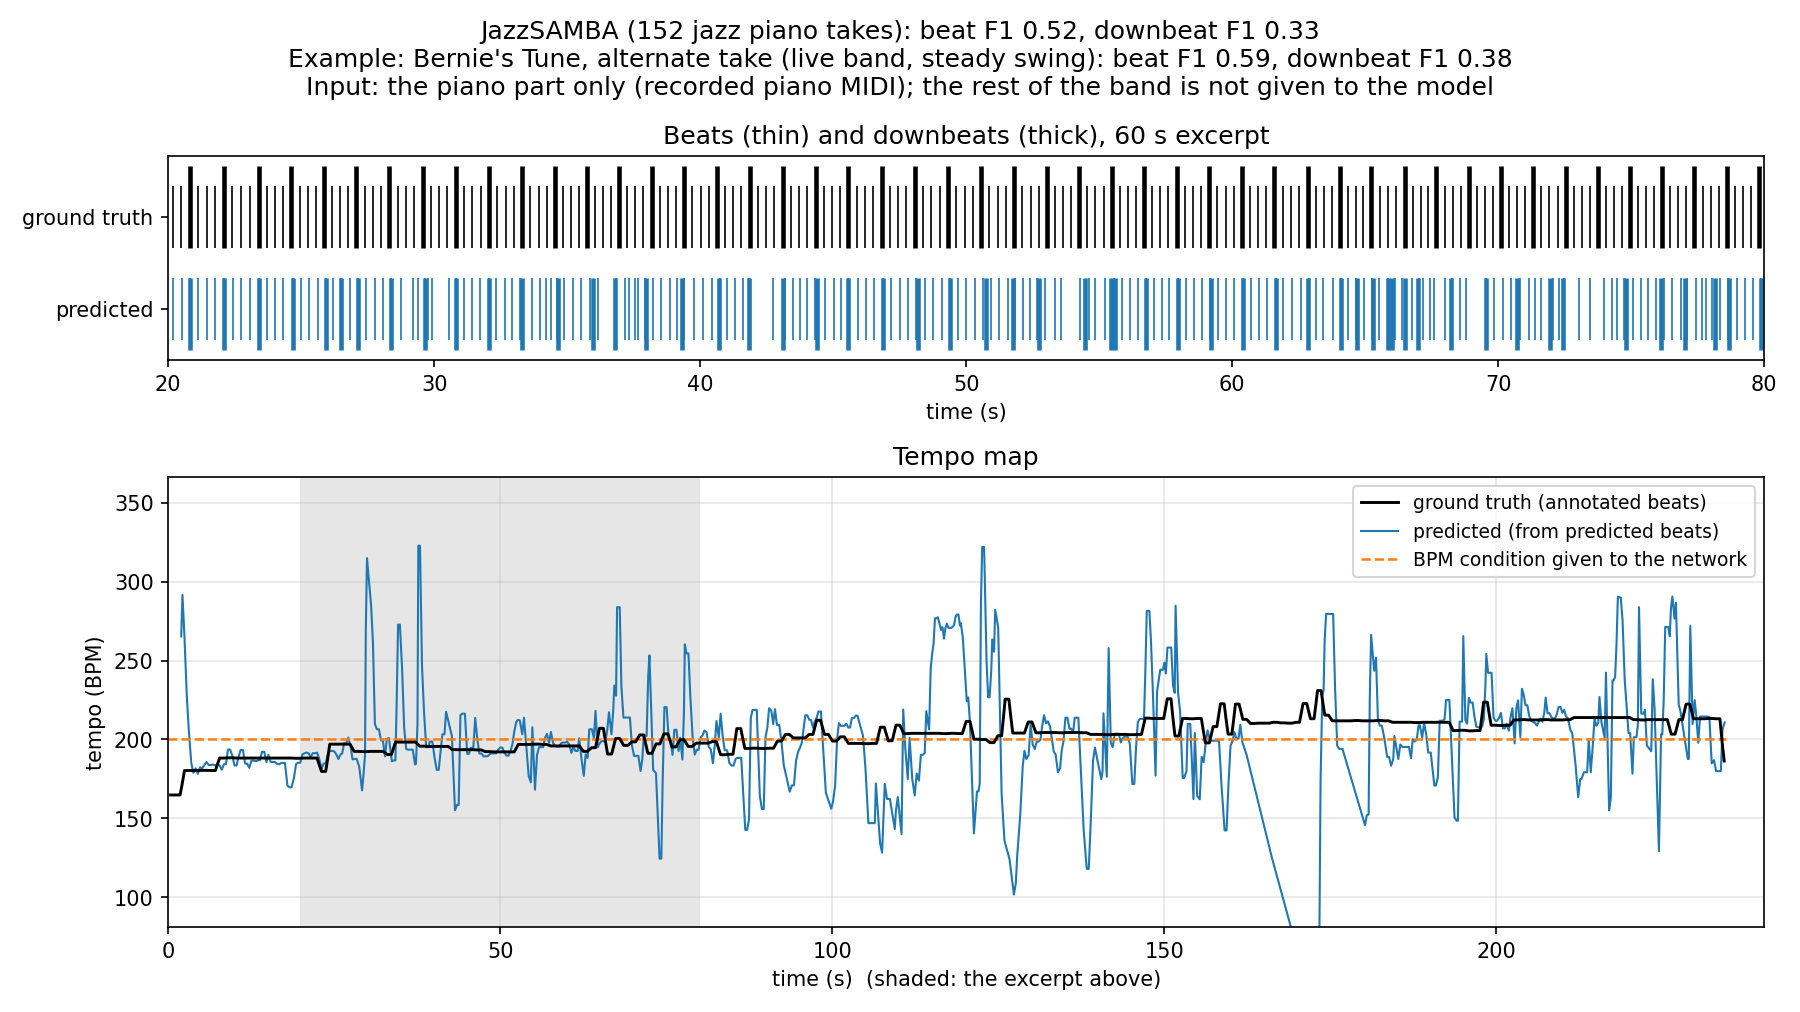
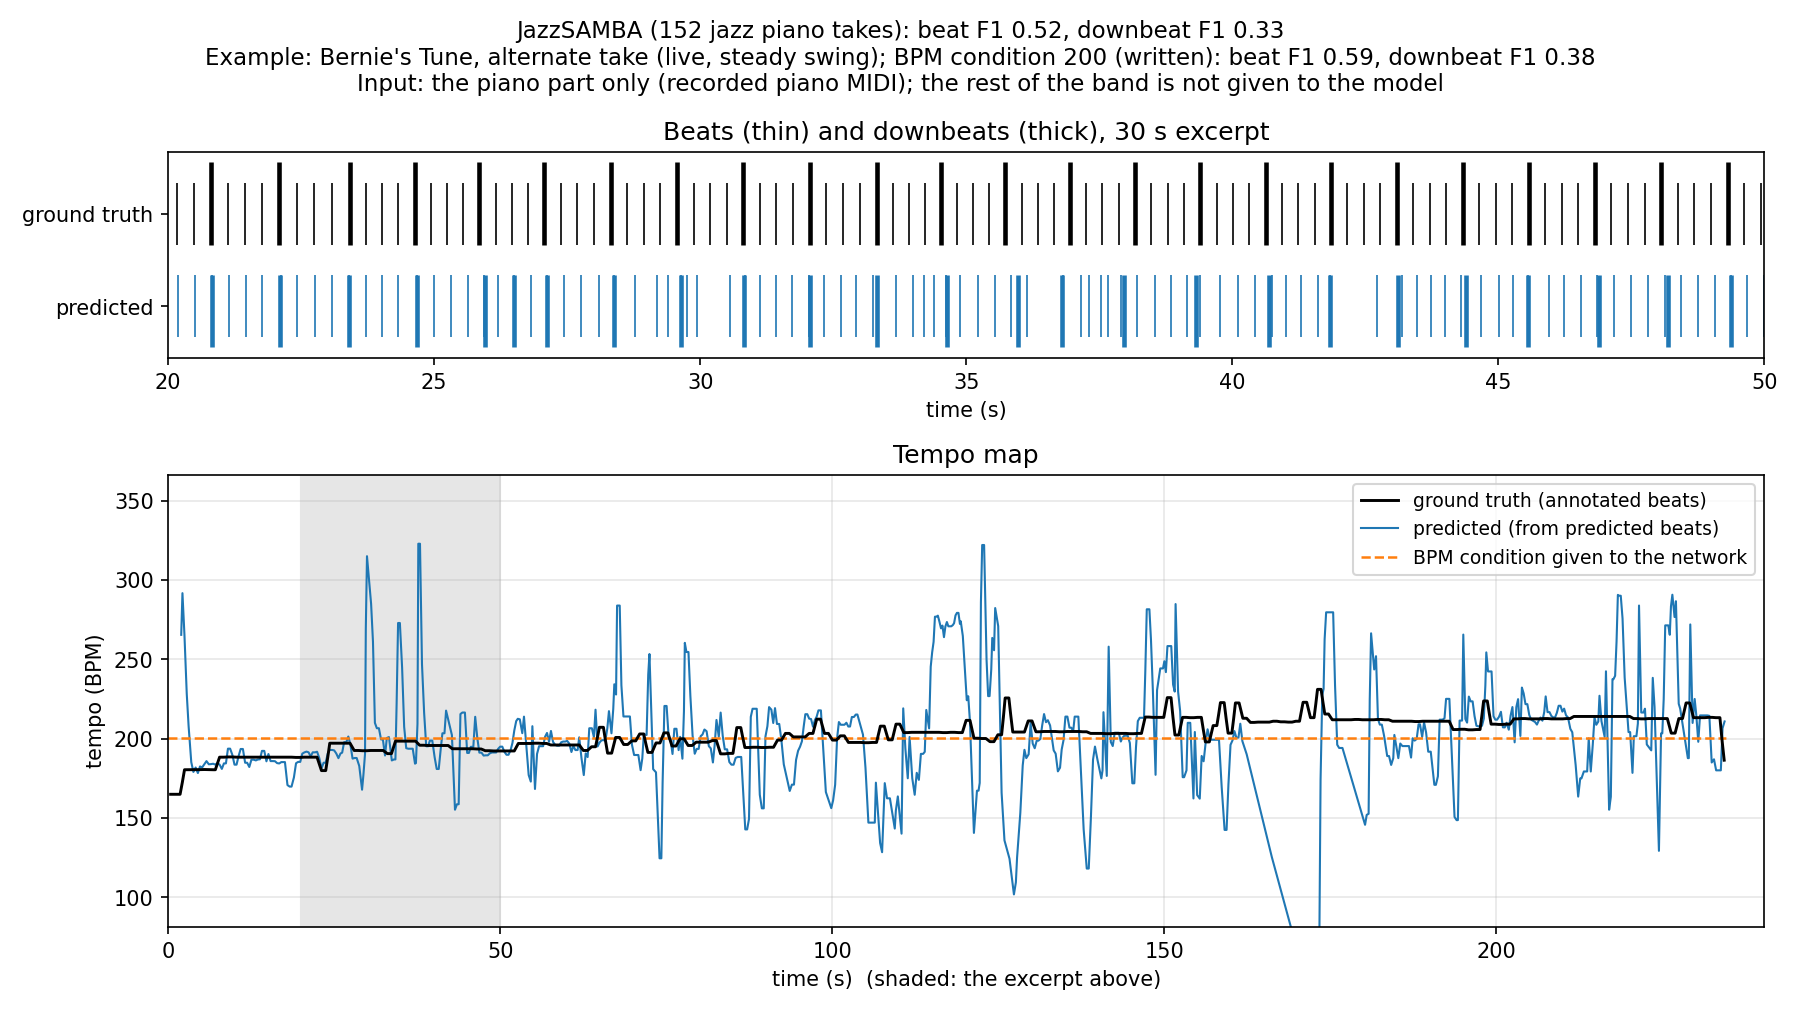
Slide figures: 30 s excerpts; Amazing Grace with piano vs piano + band
report_figures.py gains --datasets, --samba-instruments (merged band MIDI)
and --samba-tempo (written or played). Amazing Grace (preferred, played
tempo): piano 0.84/0.76, piano + bass + trumpet 0.89/0.87 beat/downbeat F1.

diff --git a/experiments/yamaha_timing/report_figures.py b/experiments/yamaha_timing/report_figures.py
@@ -55,7 +55,7 @@ def tempo_curve(beats, smooth=4):
     return beats[1:], bpm
 
 
-def figure(example, title, subtitle, path, rate, excerpt=(20.0, 80.0), source=""):
+def figure(example, title, subtitle, path, rate, excerpt=(20.0, 50.0), source=""):
     """Plain matplotlib: true vs predicted beats over an excerpt, and the tempo map."""
     import matplotlib
     matplotlib.use("Agg")
@@ -76,7 +76,7 @@ def figure(example, title, subtitle, path, rate, excerpt=(20.0, 80.0), source=""
     top.set_ylim(0, 1)
     top.set_xlim(t0, t1)
     top.set_xlabel("time (s)")
-    top.set_title("Beats (thin) and downbeats (thick), 60 s excerpt")
+    top.set_title(f"Beats (thin) and downbeats (thick), {t1 - t0:.0f} s excerpt")
 
     tt, bt = tempo_curve(np.asarray(example["true_beats"]))
     tp, bp = tempo_curve(np.asarray(example["pred_beats"]))
@@ -98,7 +98,7 @@ def figure(example, title, subtitle, path, rate, excerpt=(20.0, 80.0), source=""
 
     s = example["scores"]
     fig.suptitle(f"{title}\nExample: {subtitle}: beat F1 {s['beat']['f_measure']:.2f}, "
-                 f"downbeat F1 {s['downbeat']['f_measure']:.2f}\nInput: {source}", fontsize=12)
+                 f"downbeat F1 {s['downbeat']['f_measure']:.2f}\nInput: {source}", fontsize=11)
     fig.tight_layout()
     fig.savefig(path)
     plt.close(fig)
@@ -107,12 +107,19 @@ def figure(example, title, subtitle, path, rate, excerpt=(20.0, 80.0), source=""
 def main():
     parser = argparse.ArgumentParser(description=__doc__, formatter_class=argparse.RawDescriptionHelpFormatter)
     parser.add_argument("--checkpoint", type=Path, required=True)
+    parser.add_argument("--datasets", nargs="*", default=["lakh", "asap", "samba"])
     parser.add_argument("--lakh", type=Path, default=Path("data/lakh_v2"))
-    parser.add_argument("--samba", type=Path, required=True)
-    parser.add_argument("--samba-take", default="52-bernies_tune/alternate")
+    parser.add_argument("--asap", type=Path)
     parser.add_argument("--asap-label", default="Haydn, Keyboard Sonata Hob. XVI:32, mvt. 1")
-    parser.add_argument("--samba-label", default="Bernie's Tune, alternate take (live band, steady swing)")
-    parser.add_argument("--asap", type=Path, required=True)
+    parser.add_argument("--samba", type=Path)
+    parser.add_argument("--samba-take", default="52-bernies_tune/alternate")
+    parser.add_argument("--samba-label", default="Bernie's Tune, alternate take (live, steady swing)")
+    parser.add_argument("--samba-instruments", default="piano",
+                        help="comma-separated: piano, bass, horns, drums (merged into one piano roll)")
+    parser.add_argument("--samba-tempo", default="written", choices=("written", "played"),
+                        help="BPM condition: the catalog's written tempo or the take's median played tempo")
+    parser.add_argument("--samba-title", default="JazzSAMBA (152 jazz piano takes): beat F1 0.52, downbeat F1 0.33")
+    parser.add_argument("--samba-out", default="3_samba.png")
     parser.add_argument("--lakh-songs", type=int, default=80, help="validation songs scanned for a median one")
     parser.add_argument("--out", type=Path, default=Path("report_figures"))
     args = parser.parse_args()
@@ -120,36 +127,46 @@ def main():
     model, _ = load_checkpoint(args.checkpoint, "cpu")
     model.eval()
     rate = model.config.frame_rate
-
-    pack = SongPack(args.lakh / "val.npz")
-    group = np.asarray(pack.meta["group"])
-    firsts = [int(np.flatnonzero(group == g)[0]) for g in np.unique(group)][:args.lakh_songs]
-    examples = [(i, lakh_example(model, pack, i)) for i in firsts]
-    mb = np.median([e["scores"]["beat"]["f_measure"] for _, e in examples])
-    md = np.median([e["scores"]["downbeat"]["f_measure"] for _, e in examples])
-    index, ex = min(examples, key=lambda p: abs(p[1]["scores"]["beat"]["f_measure"] - mb)
-                    + abs(p[1]["scores"]["downbeat"]["f_measure"] - md))
-    figure(ex, "Lakh validation (717 held-out songs): beat F1 0.81, downbeat F1 0.61",
-           "a synthetic performance of a held-out song", args.out / "1_lakh_validation.png", rate,
-           source="a random combination of the song's pitched tracks (no drums), merged into one piano roll")
-    print("lakh song", pack.ids[index] if hasattr(pack, "ids") else index, ex["scores"]["beat"]["f_measure"],
-          ex["scores"]["downbeat"]["f_measure"])
-
     max_note = SynthesisConfig().max_note_seconds
-    for name, takes, wanted, title, source, path in (
-            ("asap", asap_takes(args.asap), args.asap_label,
-             "ASAP (1,067 classical piano performances): beat F1 0.58, downbeat F1 0.25",
-             "solo piano performance MIDI", "2_asap.png"),
-            ("samba", [t for t in samba_takes(args.samba) if t.name == args.samba_take], args.samba_label,
-             "JazzSAMBA (152 jazz piano takes): beat F1 0.52, downbeat F1 0.33",
-             "the piano part only (recorded piano MIDI); the rest of the band is not given to the model",
-             "3_samba.png")):
-        take = takes[0]
+
+    if "lakh" in args.datasets:
+        pack = SongPack(args.lakh / "val.npz")
+        group = np.asarray(pack.meta["group"])
+        firsts = [int(np.flatnonzero(group == g)[0]) for g in np.unique(group)][:args.lakh_songs]
+        examples = [(i, lakh_example(model, pack, i)) for i in firsts]
+        mb = np.median([e["scores"]["beat"]["f_measure"] for _, e in examples])
+        md = np.median([e["scores"]["downbeat"]["f_measure"] for _, e in examples])
+        index, ex = min(examples, key=lambda p: abs(p[1]["scores"]["beat"]["f_measure"] - mb)
+                        + abs(p[1]["scores"]["downbeat"]["f_measure"] - md))
+        figure(ex, "Lakh validation (717 held-out songs): beat F1 0.81, downbeat F1 0.61",
+               "a synthetic performance of a held-out song", args.out / "1_lakh_validation.png", rate,
+               source="a random combination of the song's pitched tracks (no drums), merged into one piano roll")
+        print("lakh", index, ex["scores"]["beat"]["f_measure"], ex["scores"]["downbeat"]["f_measure"])
+
+    if "asap" in args.datasets:
+        take = asap_takes(args.asap)[0]
         _, example = run_take(model, take, take.bpm, torch.device("cpu"), max_note)
-        rows = int(np.ceil(take.span[1] * rate)) + 1
-        example["bpm_condition"] = np.full(rows, take.bpm)
-        figure(example, title, wanted, args.out / path, rate, source=source)
-        print(name, take.name, example["scores"]["beat"]["f_measure"], example["scores"]["downbeat"]["f_measure"])
+        example["bpm_condition"] = np.full(int(np.ceil(take.span[1] * rate)) + 1, take.bpm)
+        figure(example, "ASAP (1,067 classical piano performances): beat F1 0.58, downbeat F1 0.25",
+               args.asap_label, args.out / "2_asap.png", rate, source="solo piano performance MIDI")
+        print("asap", take.name, example["scores"]["beat"]["f_measure"], example["scores"]["downbeat"]["f_measure"])
+
+    if "samba" in args.datasets:
+        instruments = tuple(args.samba_instruments.split(","))
+        take = next(t for t in samba_takes(args.samba, instruments=instruments) if t.name == args.samba_take)
+        bpm = take.bpm if args.samba_tempo == "written" else float(60 / np.median(np.diff(take.beats)))
+        _, example = run_take(model, take, bpm, torch.device("cpu"), max_note)
+        example["bpm_condition"] = np.full(int(np.ceil(take.span[1] * rate)) + 1, bpm)
+        if instruments == ("piano",):
+            source = "the piano part only (recorded piano MIDI); the rest of the band is not given to the model"
+        else:
+            source = f"{take.info['instruments'].replace('+', ' + ').replace('_', ' ')} merged into one piano roll"
+        tempo = (f"BPM condition {take.bpm:.0f} (written)" if args.samba_tempo == "written"
+                 else f"BPM condition {bpm:.0f} (played; written {take.bpm:.0f})")
+        figure(example, args.samba_title, f"{args.samba_label}; {tempo}",
+               args.out / args.samba_out, rate, source=source)
+        print("samba", take.name, take.info["instruments"], f"bpm {bpm:.1f}",
+              example["scores"]["beat"]["f_measure"], example["scores"]["downbeat"]["f_measure"])
 
 
 if __name__ == "__main__":
